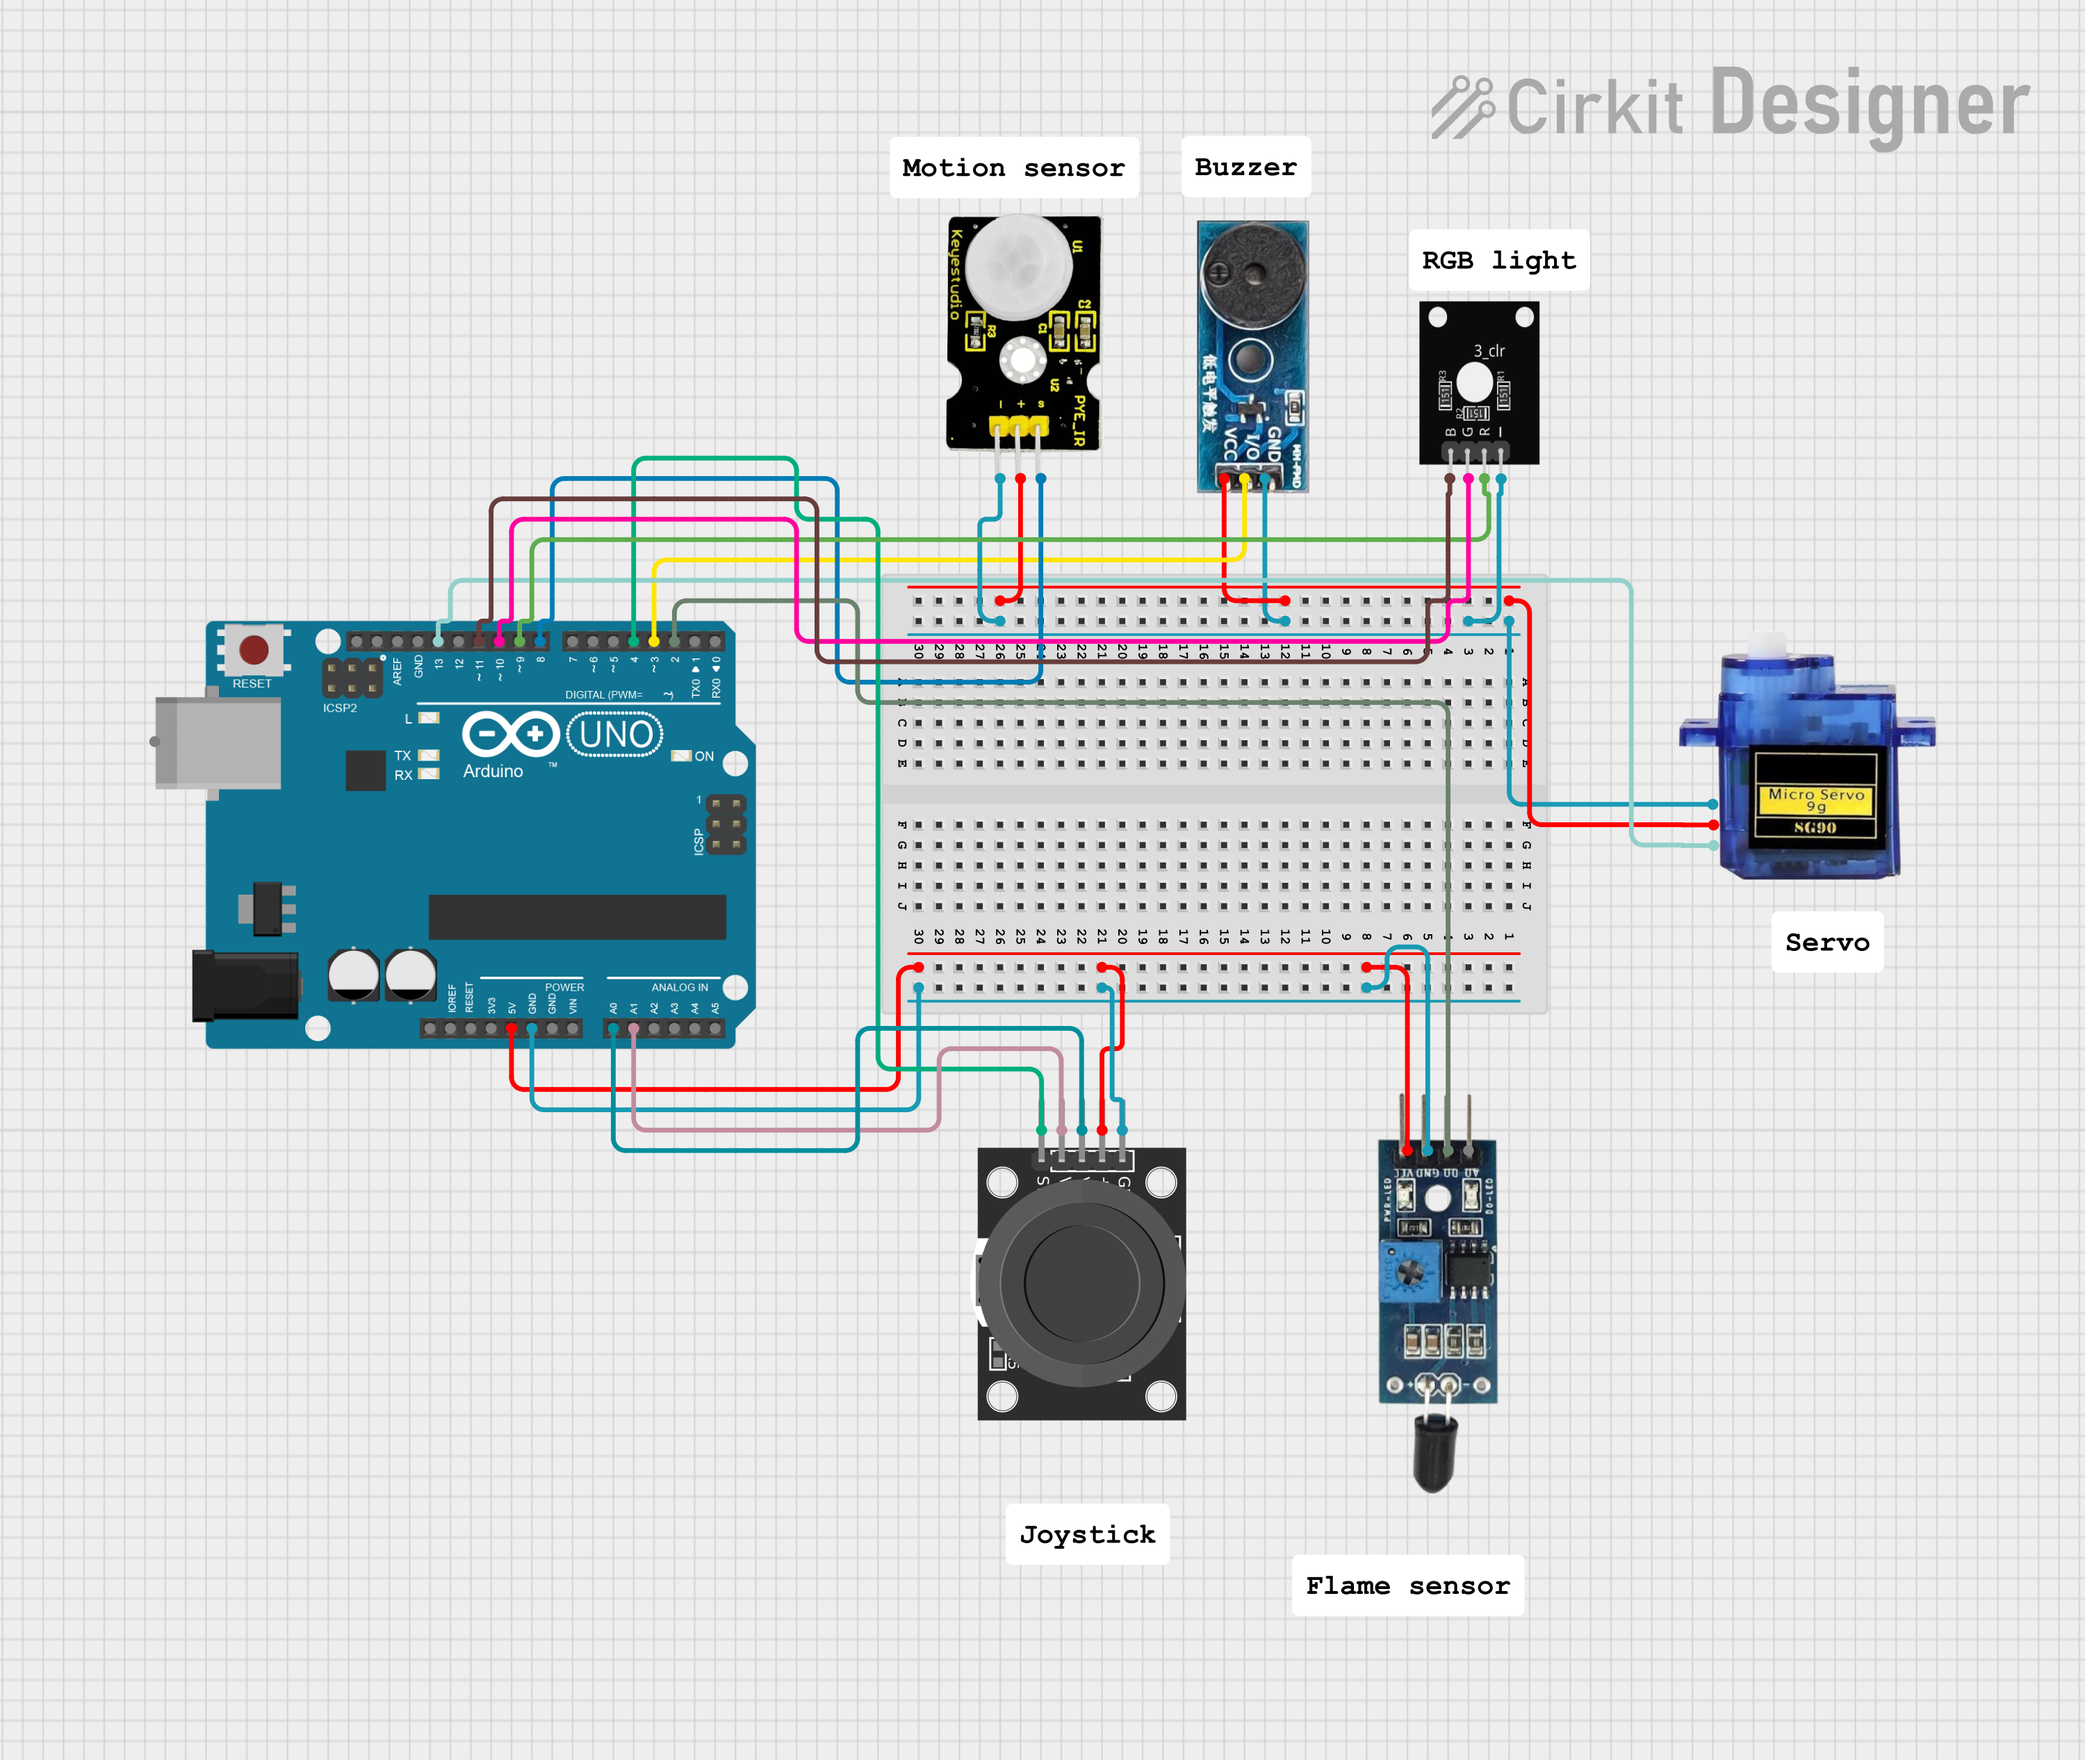
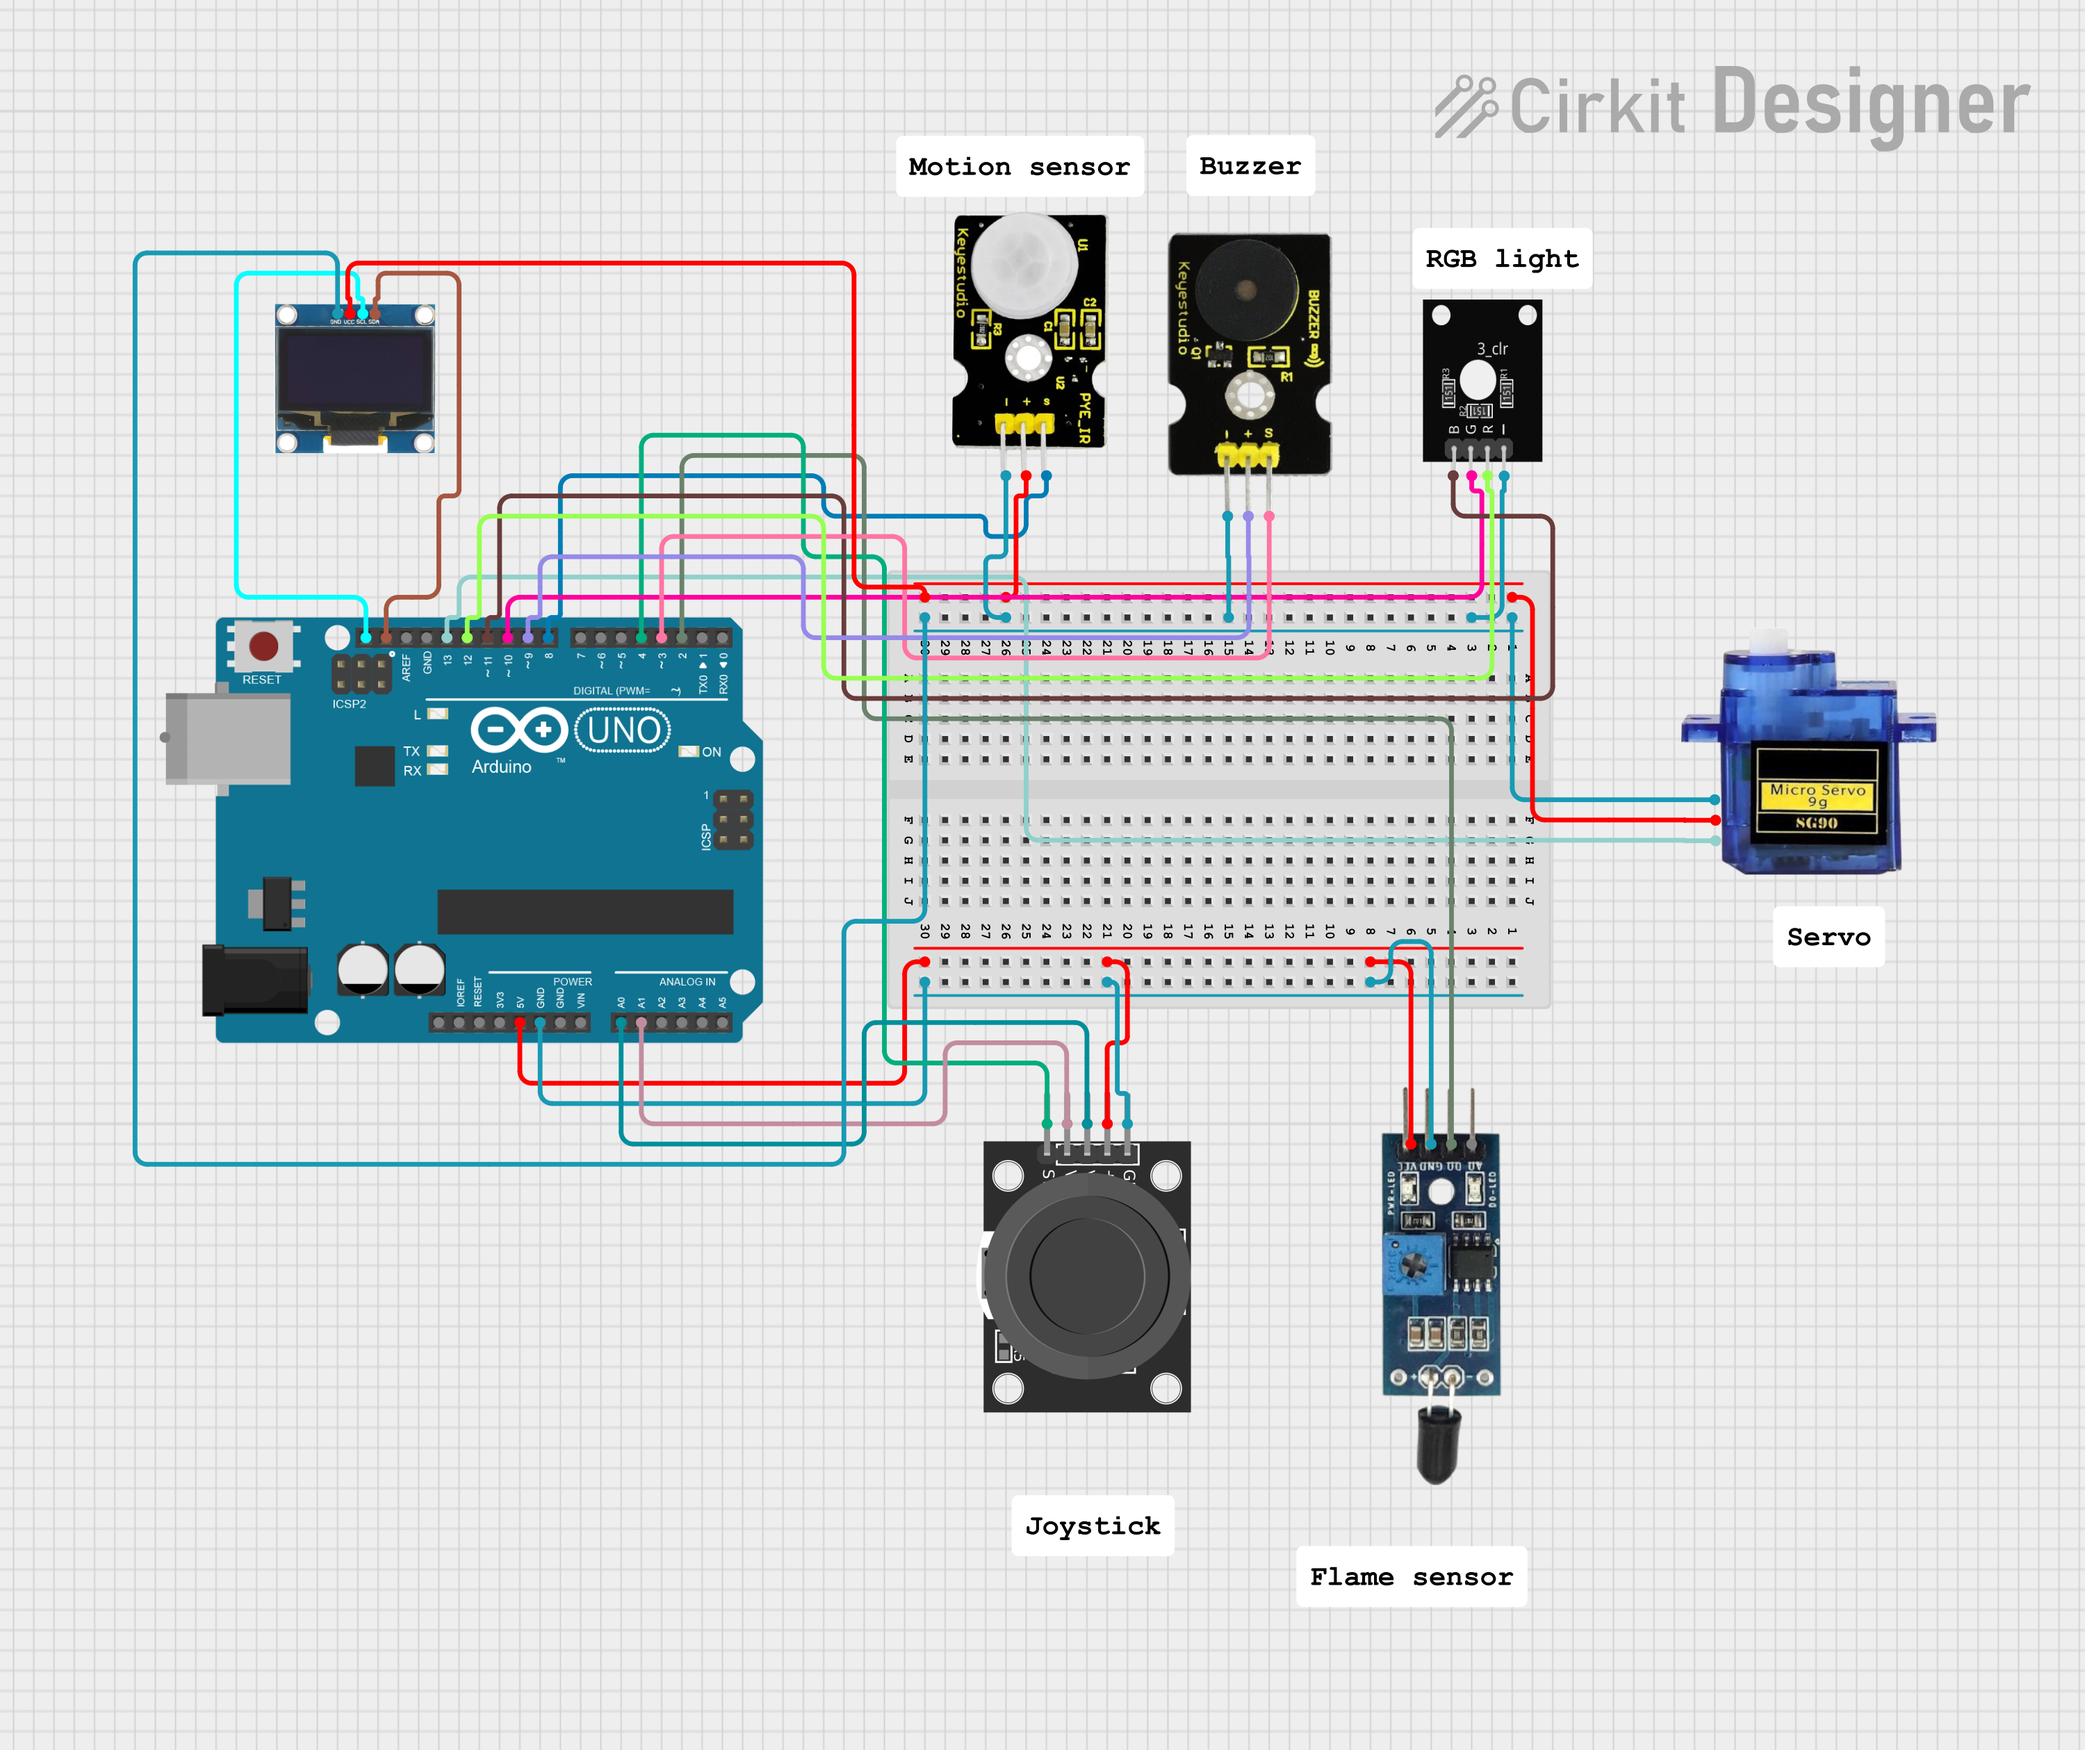
update okosotthon

diff --git a/Okosotthon/Feladatleiras.md b/Okosotthon/Feladatleiras.md
@@ -16,6 +16,7 @@
 -   [2. Feladat](#2-feladat) 
 -   [3. Feladat](#3-feladat)
 -   [4. Feladat](#4-feladat)
+-   [Joystick használata](#joystick-használata)
 -   [Teljes rendszer](#a-teljes-rendszer-működtetése)
 -   [Extra Feladat](#extra-feladat)
 
@@ -124,9 +125,31 @@
 ---
 
 # 4. Feladat:
+🖥 OLED kijelző szövegmegjelenítő Arduino-val 📟
+**🛠 Feladat leírása:** Készíts egy egyszerű programot, amely képes szöveget megjeleníteni egy OLED kijelzőn! A kijelző I²C kommunikációval csatlakozik az Arduino-hoz, és az Adafruit könyvtárak segítségével vezérelhető.
 
+**💾 Kód működése**
+A program:
+- Inicializálja a kijelzőt a setup() függvényben.
+- Ellenőrzi, hogy sikeres volt-e a kijelző beállítása.
+- A loop() függvényben folyamatosan kiírja: "Hello world!"
+
+**🧠 Főbb funkciók**
+- display.begin(...) ➡ kijelző inicializálása
+- display.clearDisplay() ➡ képernyő törlése
+- display.setTextSize(...) ➡ betűméret beállítása
+- display.setCursor(...) ➡ szöveg pozíciója
+- display.println(...) ➡ szöveg kiírása
+- display.display() ➡ megjelenítés frissítése
 
 ![4. Feladat](4.png)
+
+---
+
+# Joystick használata 🎮
+
+
+
 
 ---
 
@@ -176,6 +199,7 @@
 - Folyamatosan mutatja az aktuálisan beírt jelszót.
 - Segítséget nyújt a karakterválasztáshoz.
 
+---
 
 ### **🏆 Extra feladat:**  
 **🛠 Extra feladat:** Ha elkészült az alap projekt, és van kedved feltúrbózni, itt egy gondolkodós kihívás! 🤔
